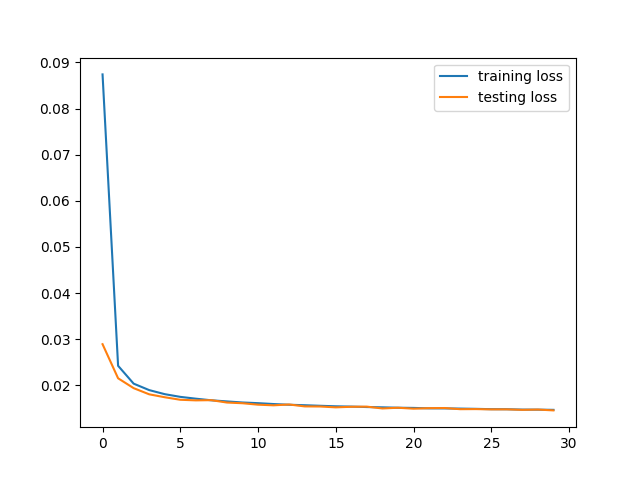
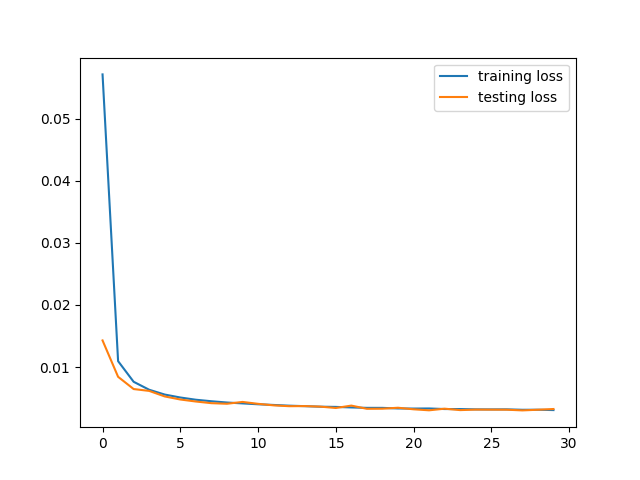
Added in the linear classifier head

diff --git a/main.py b/main.py
@@ -4,14 +4,32 @@ from utils import *
 from dataloaders import *
 from model import *
 from train_autoencoder import *
+from torch import nn
+import torch.nn.functional as F
+import torch.optim as optim
 
 import matplotlib.pyplot as plt
+
+class LinearHead(nn.Module):
+
+	def __init__(self,input_dim):
+		super().__init__()
+		self.linearhead = nn.Sequential(
+			nn.Linear(input_dim, 32),
+			nn.ReLU(),
+			nn.Linear(32, 10)
+			)
+		self.softmax = nn.Softmax(dim = -1)
+
+	def forward(self,x):
+		return self.linearhead(x)
+
 
 test = True
 
 
-encoder = Encoder(8)
-decoder = Decoder(8)
+encoder = Encoder(100)
+decoder = Decoder(100)
 
 loss = CreateLoss().loss()
 
@@ -48,6 +66,60 @@ except:
 
 		encoder, decoder, tl = train_ae(encoder, decoder, train, 100, optim, device, loss, 30, save_model = True)
 #print(tl)
+
+def train_linearhead(encoder,device,train, test, optim, batch_size = 100, num_epochs = 10):
+
+	train_loader = dataloader(batch_size = batch_size).create_loader(train)
+	encoder.eval()
+	linear_model = LinearHead(100).to(device)
+	optim = torch.optim.Adam(linear_model.parameters(), lr = 0.01,weight_decay = 1e-02)
+	loss = nn.CrossEntropyLoss()
+
+	for n in range(num_epochs):
+		lin_train = []
+
+		for batch,labels in train_loader:
+			batch = batch.to(device)
+			encoded_data = encoder(batch).detach()
+			output = linear_model(encoded_data)
+
+			#print(type(output[0].item()))
+			#print(output)
+			l = loss(output.cpu(), labels)
+			optim.zero_grad()
+			l.backward()
+			optim.step()
+			lin_train.append(l.data)
+		print(f"linear training loss at epoch {n} = {np.mean(lin_train)}")
+
+	return (encoder, linear_model)
+
+encoder, linear_model = train_linearhead(encoder, device,train, test, optim)
+
+
+def test_acc(encoder,linear_model, test_set, batch_size):
+	acc = 0
+	n = len(test_set)
+
+	encoder.eval()
+	linear_model.eval()
+
+	test_loader = dataloader(batch_size = batch_size).create_loader(test_set)
+
+	for batch,label in test_loader:
+		batch = batch.to(device)
+		label = label.to(device)
+		encoded_data = encoder(batch).detach()
+		output = torch.argmax(linear_model(encoded_data), dim = -1)
+		acc += len(torch.where(output == label)[0])
+		#print(acc)
+	return acc/n
+
+
+
+test_acc = test_acc(encoder, linear_model, test, batch_size = 100)
+print(f"The final test accuracy = {test_acc}")
+
 
 
 if __name__ == "__main__":
